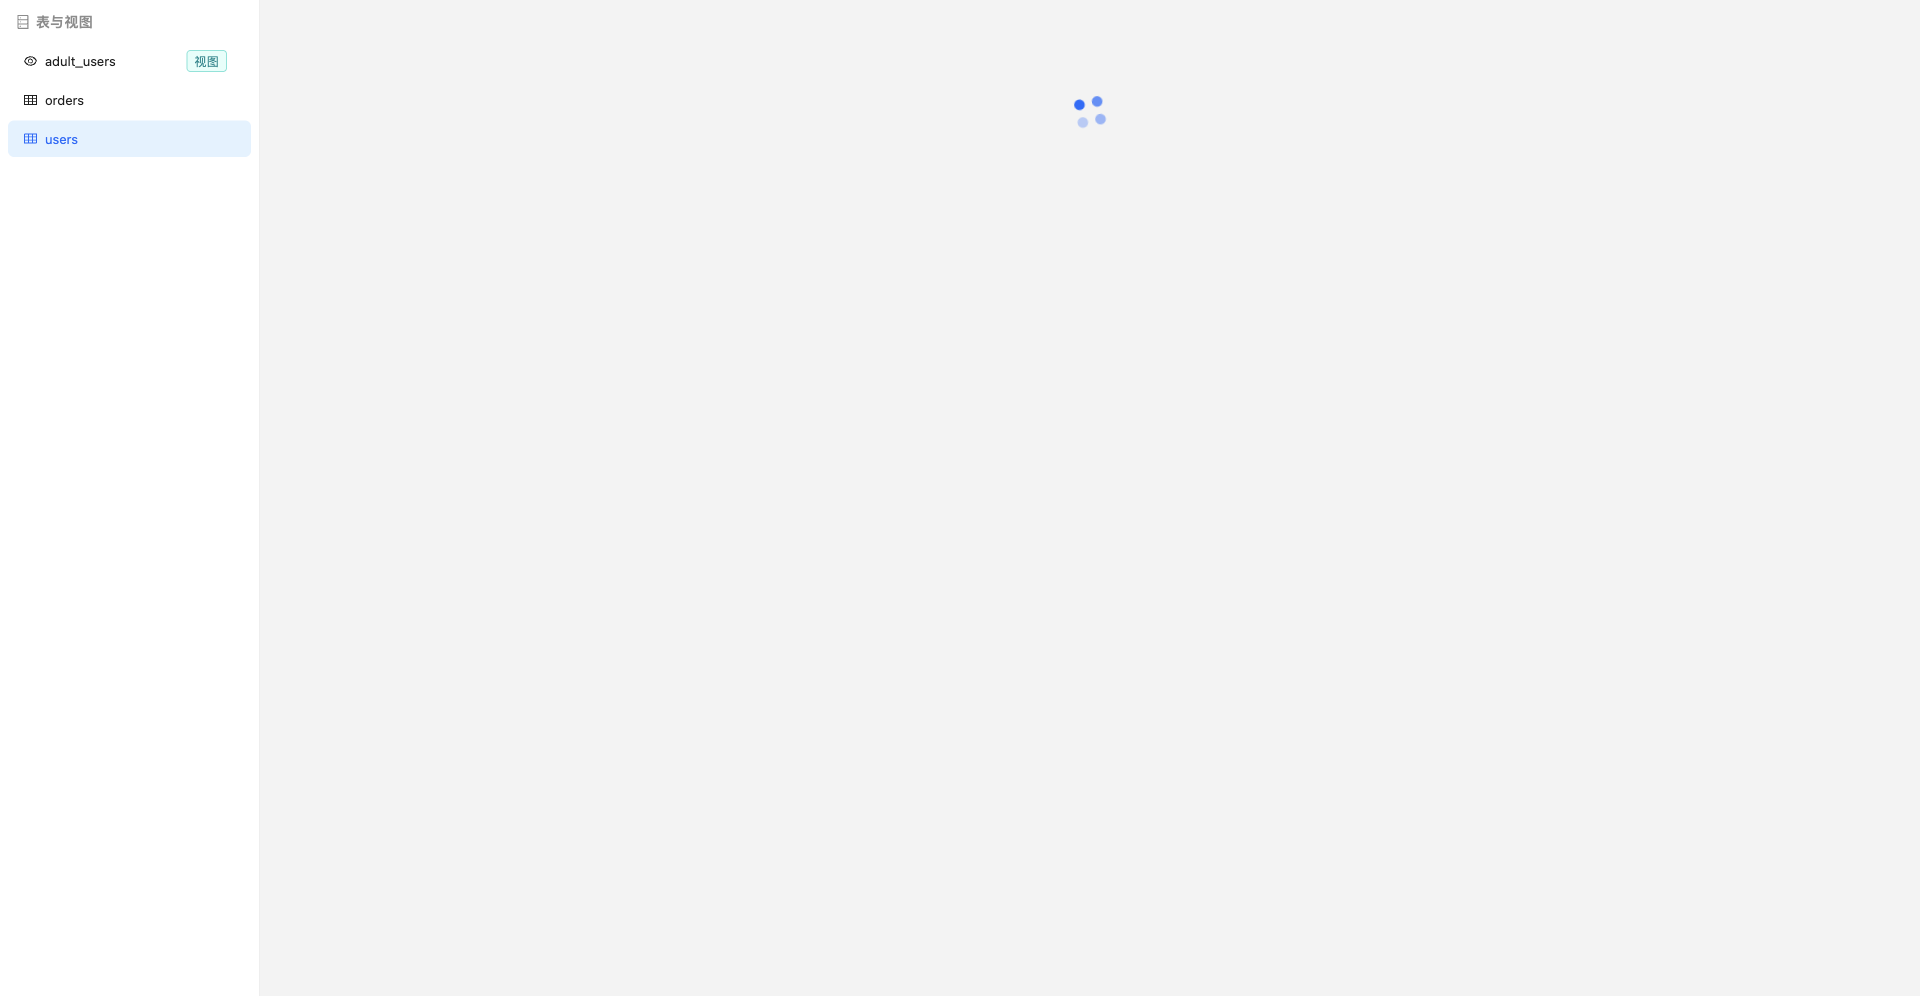
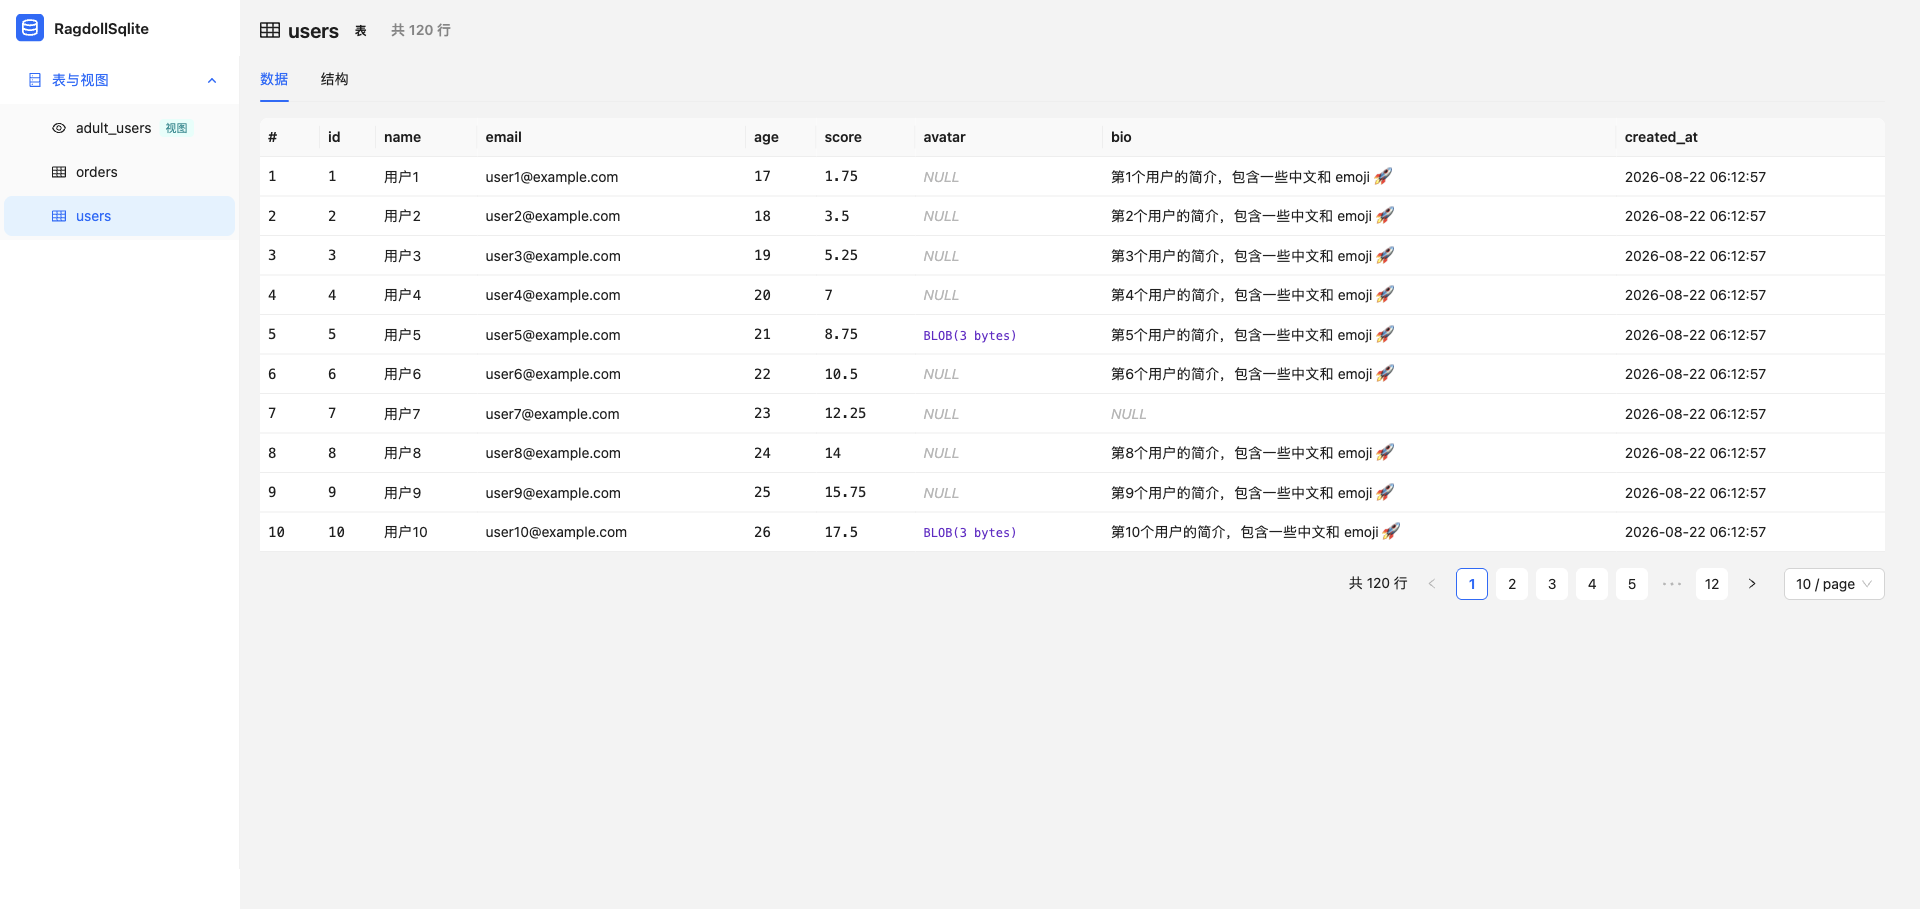
docs: 清理过时文档，README 同步当前实现
- 删除 PLAN.md（早期方案，已被实现演进取代，git 历史可查）
- 删除一次性/过时截图 screenshot-pagination / screenshot-dark-sider
- 重新截图 docs/screenshot.png（当前 UI：菜单侧边栏 + users 表）
- README 更新：特性列表（菜单/悬停 Popover/行详情）、目录结构（useTableData/constants/集成测试）、
  /api/tables 大库按需加载说明、roadmap 移除已实现的“行详情抽屉”

diff --git a/README.md b/README.md
@@ -4,12 +4,13 @@
 
 ![截图](docs/screenshot.png)
 
-## 特性（v1）
+## 特性
 
 - 🔒 **只读**：以 `readonly` 模式打开数据库，页面无任何写入口
-- 📋 表 / 视图清单，含类型图标
+- 📋 侧边栏「表与视图」菜单：可折叠（默认展开）、表/视图图标区分，支持后续扩展更多菜单
 - 🧱 表结构：字段（类型 / 主键 / 非空 / 默认值）、外键、索引
 - 📄 分页浏览数据（默认 10 条/页，最大 50），NULL / BLOB / 中文 / emoji 安全展示
+- 🔍 单元格 hover 弹 Popover 看完整内容（BLOB 含 hex 预览）；点击行弹出全字段详情
 - 🛡 只监听 `127.0.0.1` + 随机端口 + 随机 token 校验，防止本机其他进程探测
 - 🖨 启动后只打印访问地址，需要自动打开浏览器时加 `--open`，Ctrl+C 优雅退出
 
@@ -68,26 +69,27 @@ RAGDOLL_DB=./data/app.db pnpm dev:server
 ```
 ├── package.json / pnpm-workspace.yaml
 ├── tsconfig.json / tsconfig.server.json / tsconfig.test.json
-├── vite.config.ts / index.html
+├── vite.config.ts / eslint.config.js / index.html
 ├── src/
 │   ├── cli.ts              # 入口：参数解析、启动服务、打开浏览器、优雅退出
 │   ├── server/
 │   │   ├── http.ts         # node:http 服务器 + token 校验 + 静态托管
-│   │   ├── db.ts           # better-sqlite3 只读封装（探活/元数据/分页/序列化）
+│   │   ├── db.ts           # better-sqlite3 只读封装（探活/元数据/分页/序列化/行数缓存）
 │   │   └── api.ts          # REST API 处理器
-│   ├── client/             # 前端 SPA（antd v6）
-│   │   ├── App.tsx          # 状态容器：数据获取 + 布局组装
+│   ├── client/             # 前端 SPA（React 19 + antd v6）
+│   │   ├── App.tsx          # 布局组装 + 表清单预取
+│   │   ├── useTableData.ts  # 选中表的数据获取 hook（详情/分页/序号守卫）
 │   │   ├── api.ts           # API 请求封装（token + 超时）
 │   │   └── components/      # 展示组件：TableList / DataTable / StructureTable / CellValue
-│   └── shared/types.ts     # 前后端共享类型
-└── test/                   # 单元测试
+│   └── shared/             # 前后端共享：types.ts + constants.ts
+└── test/                   # 单元 + 集成测试（db.test.ts / api.test.ts）
 ```
 
 ## API
 
 | 端点                                         | 说明                                            |
 | -------------------------------------------- | ----------------------------------------------- |
-| `GET /api/tables`                            | 表/视图清单（含全部表的字段，一次预取所有表头） |
+| `GET /api/tables`                            | 表/视图清单（表数 ≤50 时一次预取所有表头，更大库按需加载） |
 | `GET /api/tables/:name`                      | 表结构（字段/外键/索引/行数）                   |
 | `GET /api/tables/:name/rows?page=&pageSize=` | 分页数据                                        |
 
@@ -95,7 +97,7 @@ RAGDOLL_DB=./data/app.db pnpm dev:server
 
 ## Roadmap
 
-- 行详情抽屉、列排序、条件过滤
+- 列排序、条件过滤
 - 只读 SQL 查询控制台
 - 导出 CSV / JSON
 - 深色模式、大表虚拟滚动
